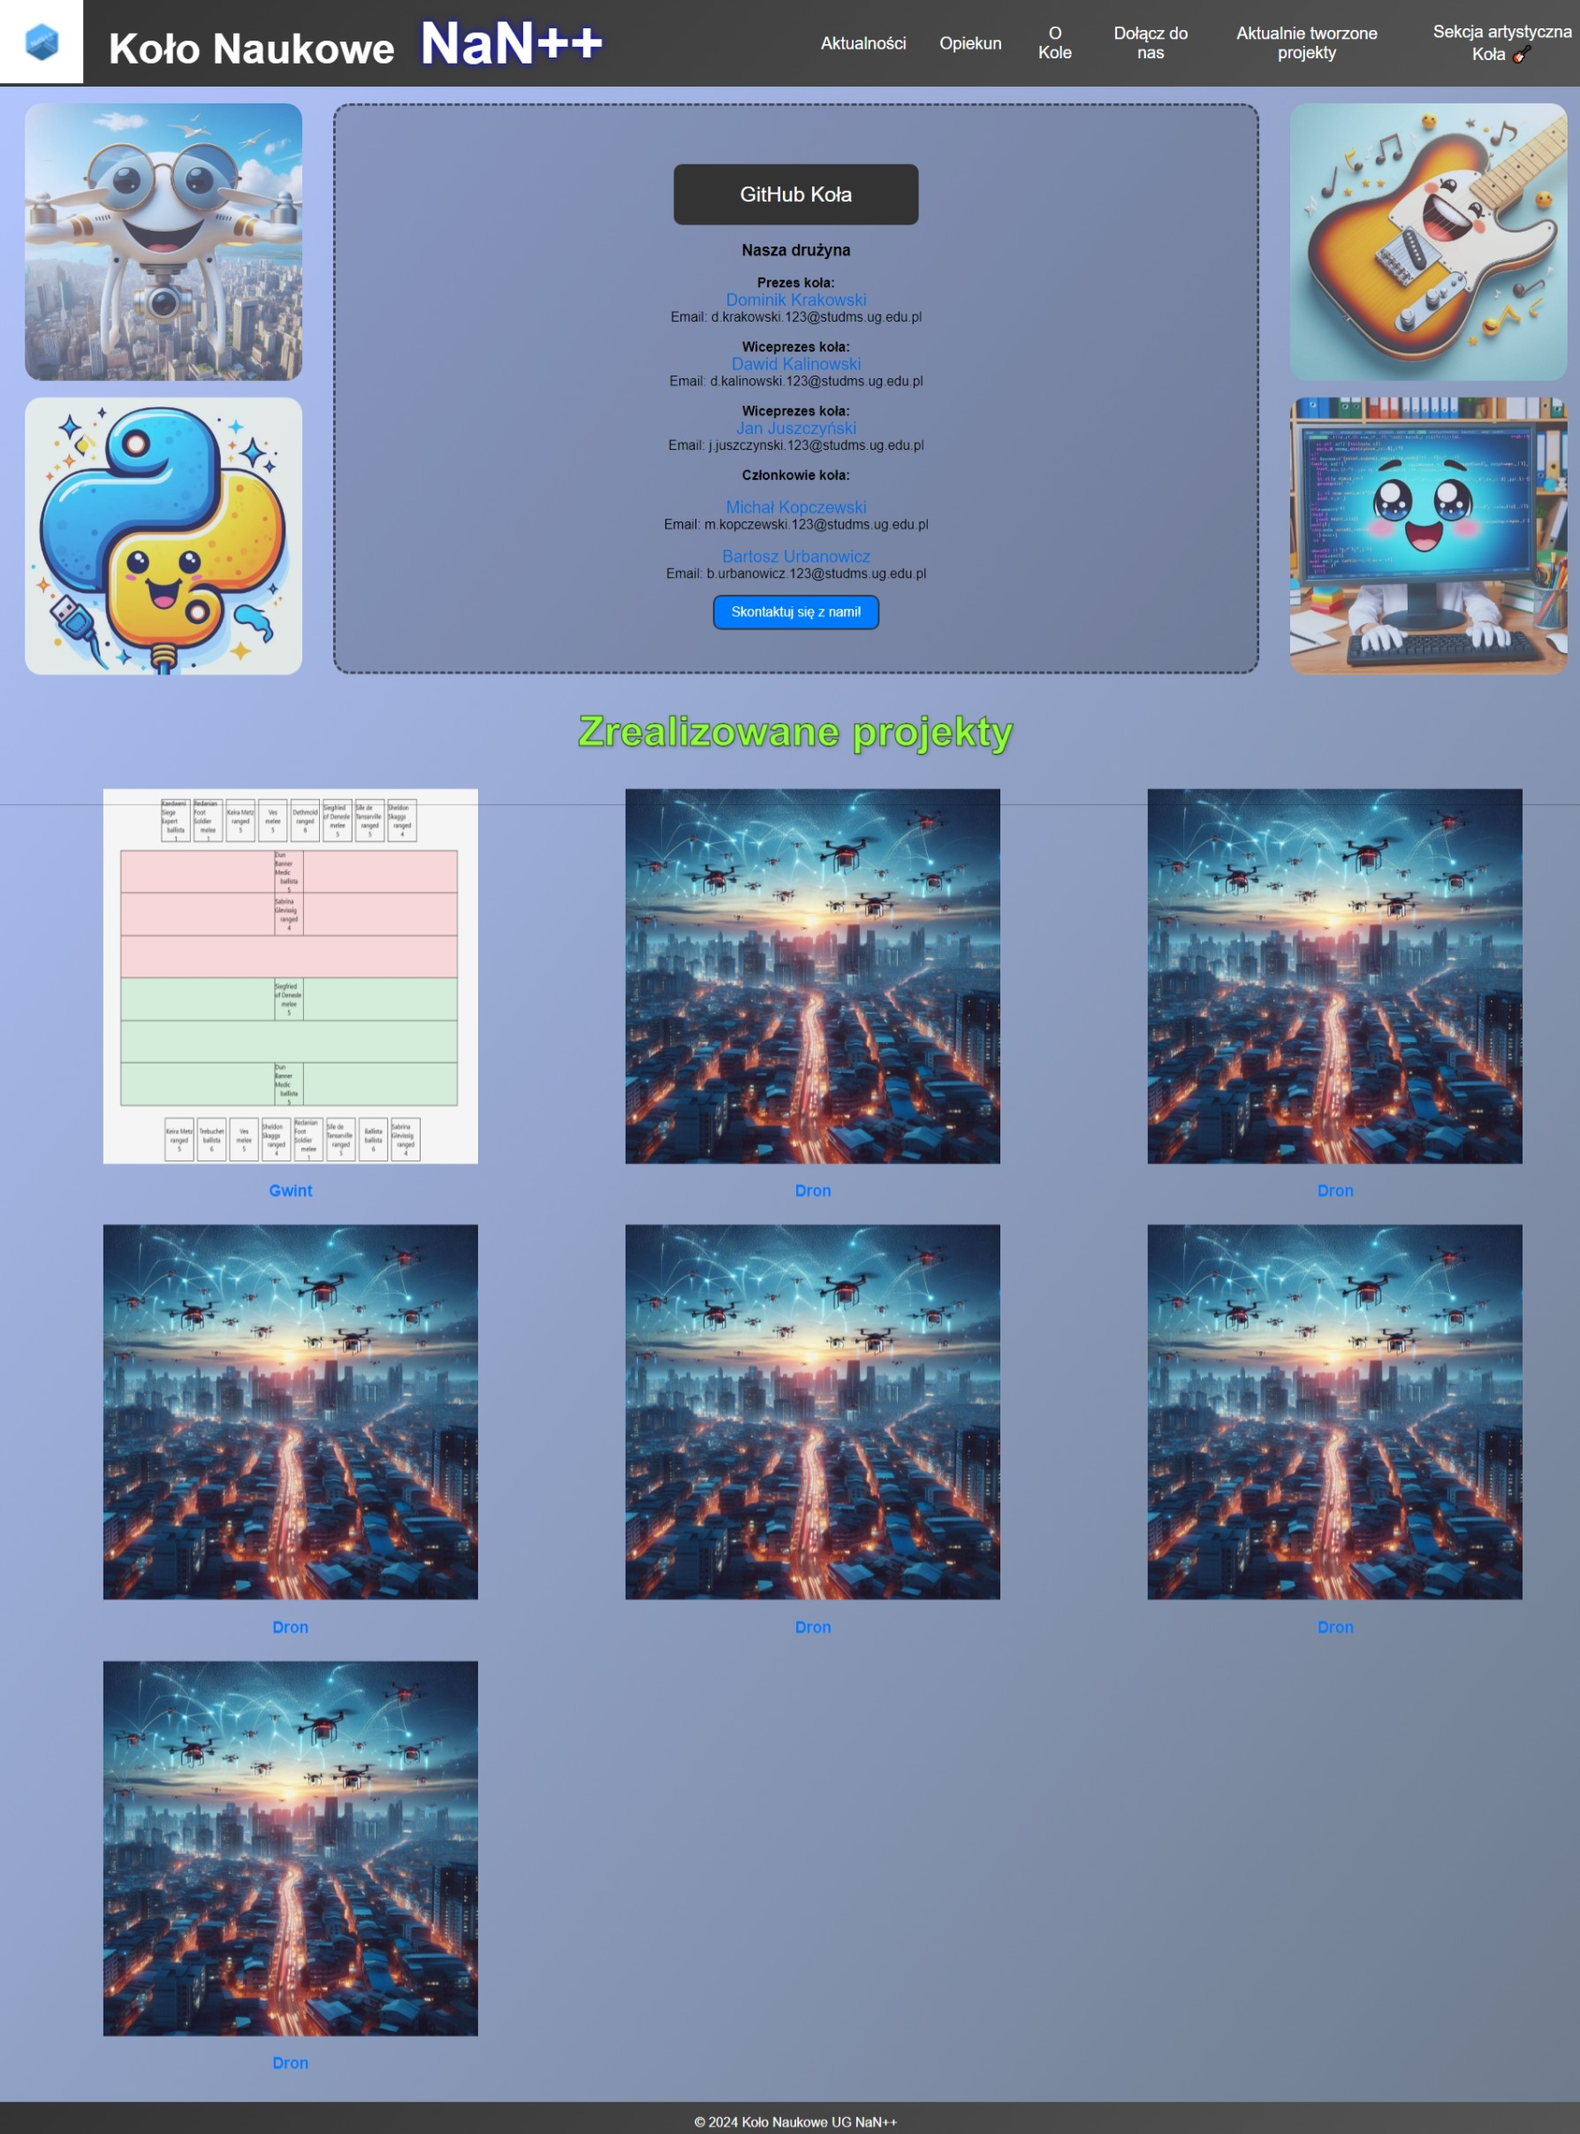
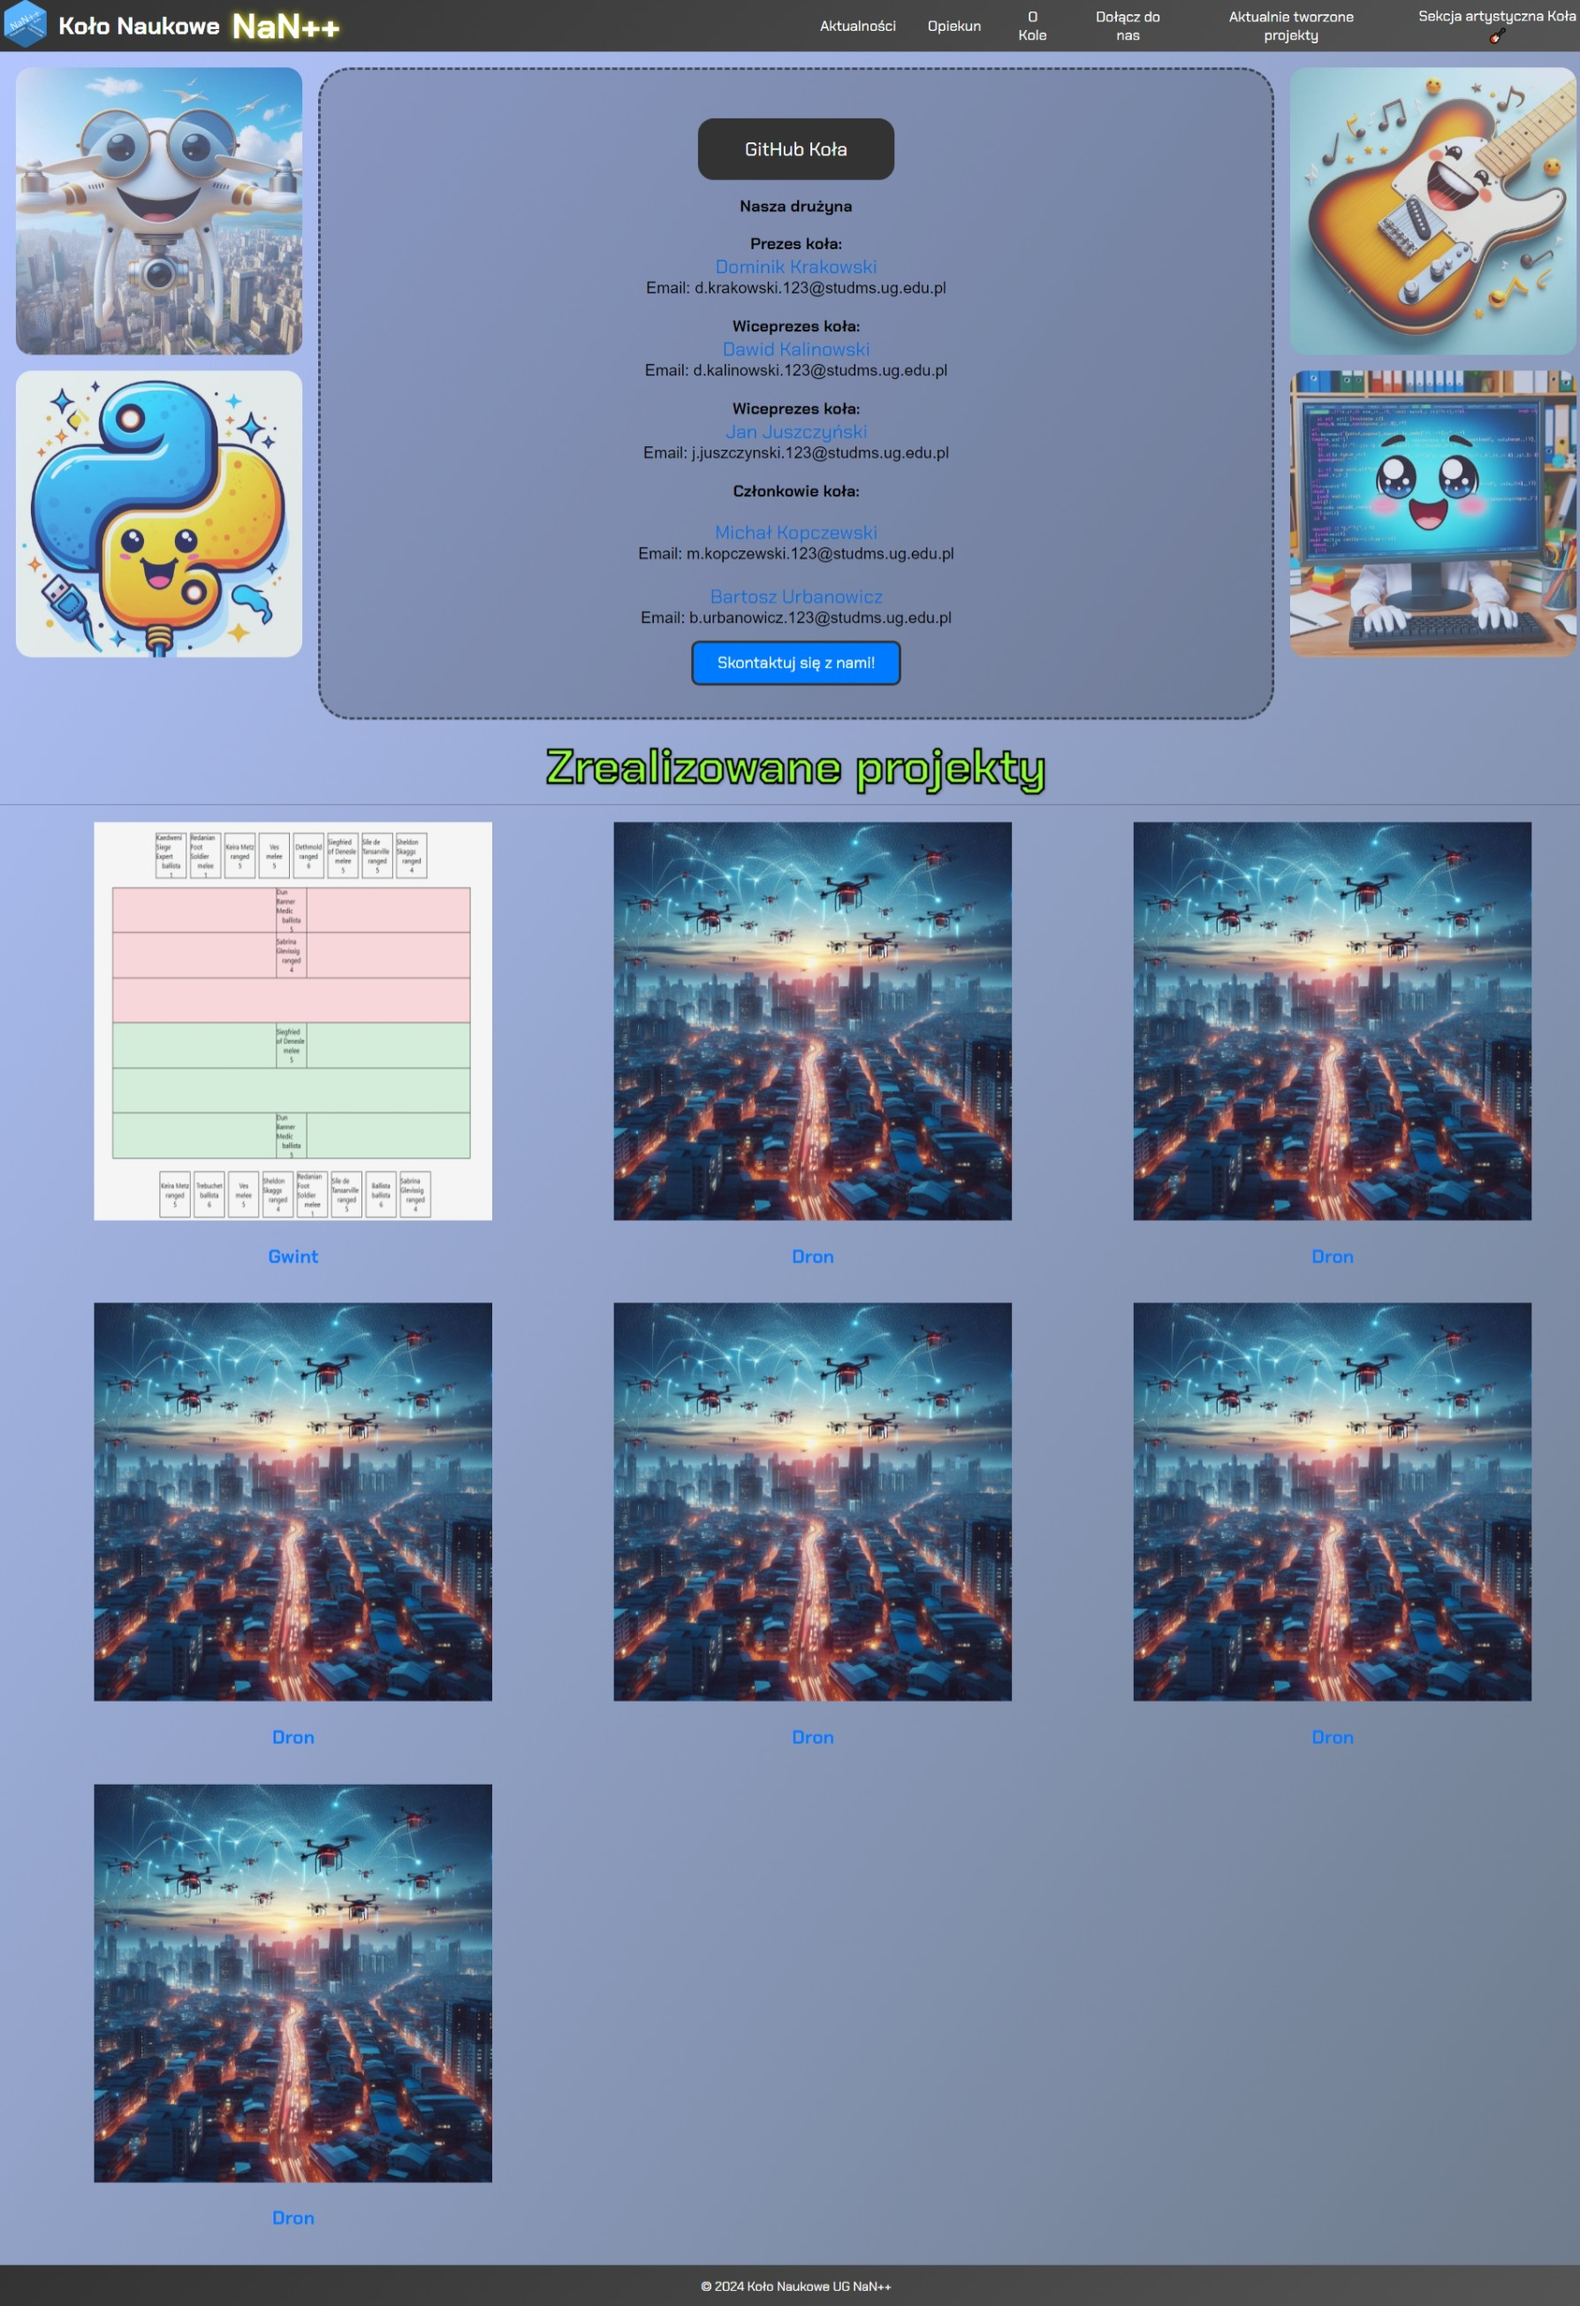
poprawki stylowania elementów v3, przystosowanie strony do urządzeń mobilnych

diff --git a/styles.css b/styles.css
@@ -86,6 +86,7 @@ a:hover {
 }
 
 .left-background {
+  z-index: 0;
   margin-left: 1vw;
   display: flex;
   flex-direction: column;
@@ -93,6 +94,7 @@ a:hover {
 }
 
 .right-background {
+  z-index: 0;
   margin-right: 1vw;
   display: flex;
   flex-direction: column;
@@ -103,7 +105,7 @@ a:hover {
 .background-image {
   opacity: 0.7;
   margin-top: 1vw;
-  height: 33vh;
+  width: 18vw;
   border-radius: 1vw;
 }
 
@@ -186,7 +188,7 @@ a:hover {
   background-color: #007bff;
   color: #fff;
   text-decoration: none;
-  border: 0.3vh solid #333;
+  border: 0.2vw solid #333;
   border-radius: 0.5vw;
   transition: background-color 0.3s, transform 0.3s;
 }
@@ -216,7 +218,7 @@ a:hover {
   margin-bottom: 1vh;
   text-align: center;
   text-shadow: 0.1vw 0.1vw 0.2vw rgba(0, 0, 0, 0.2);
-  -webkit-text-stroke: 0.15vh black;
+  -webkit-text-stroke: 0.15vw black;
 }
 
 

diff --git a/readme.md b/readme.md
@@ -17,6 +17,10 @@ Brakujące elementy:
 - Sekcja artystyczna koła: Tam będą zamieszczane wszelakie inicjatywy muzyczne jakie uda nam się zorganizować. Może muzyka polecana przez nas. Może sprzęt muzyczny polecany przez nas.
 - Zrealizowane projekty: po kliknięciu w dany projekt, wyświetli się strona z opisaniem projektu, kto nad nim pracował, co robił, oraz repo do niego
 
+#### Jak wygląda strona na komputerze:
 ![Strona](ss_strony.jpeg)
+
+#### Jak wygląda strona na telefonie:
+![Strona](ss_mobilny_strony.jpg)
 
 
